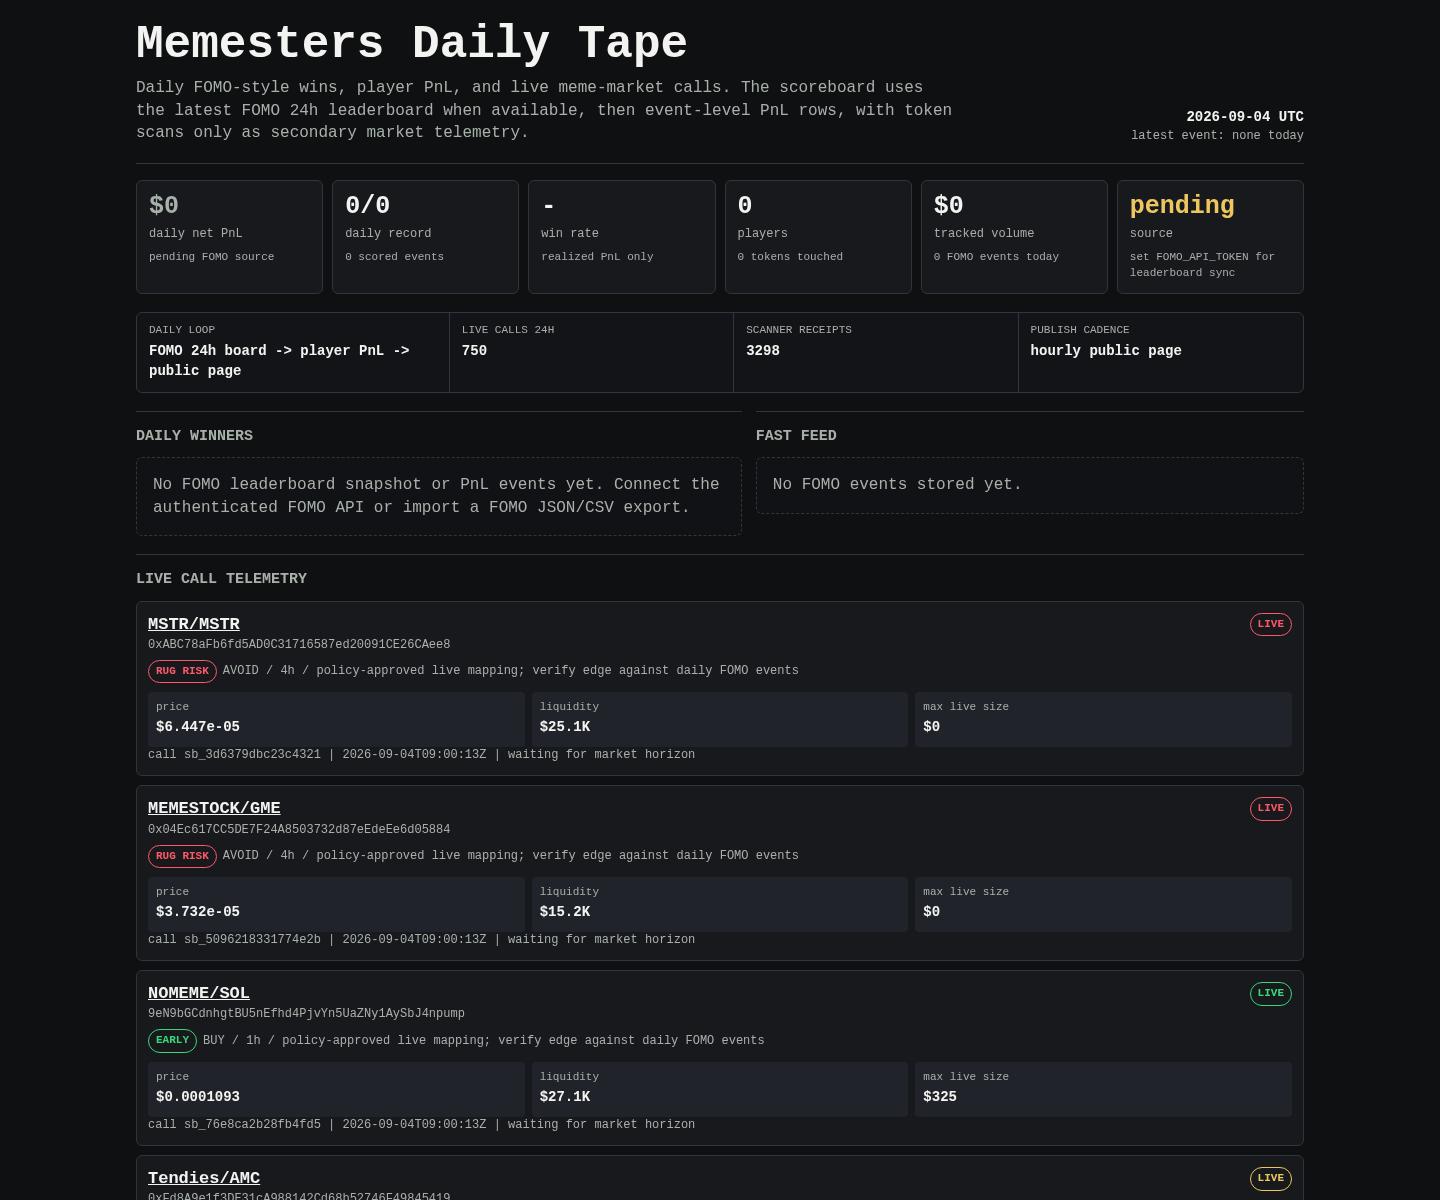
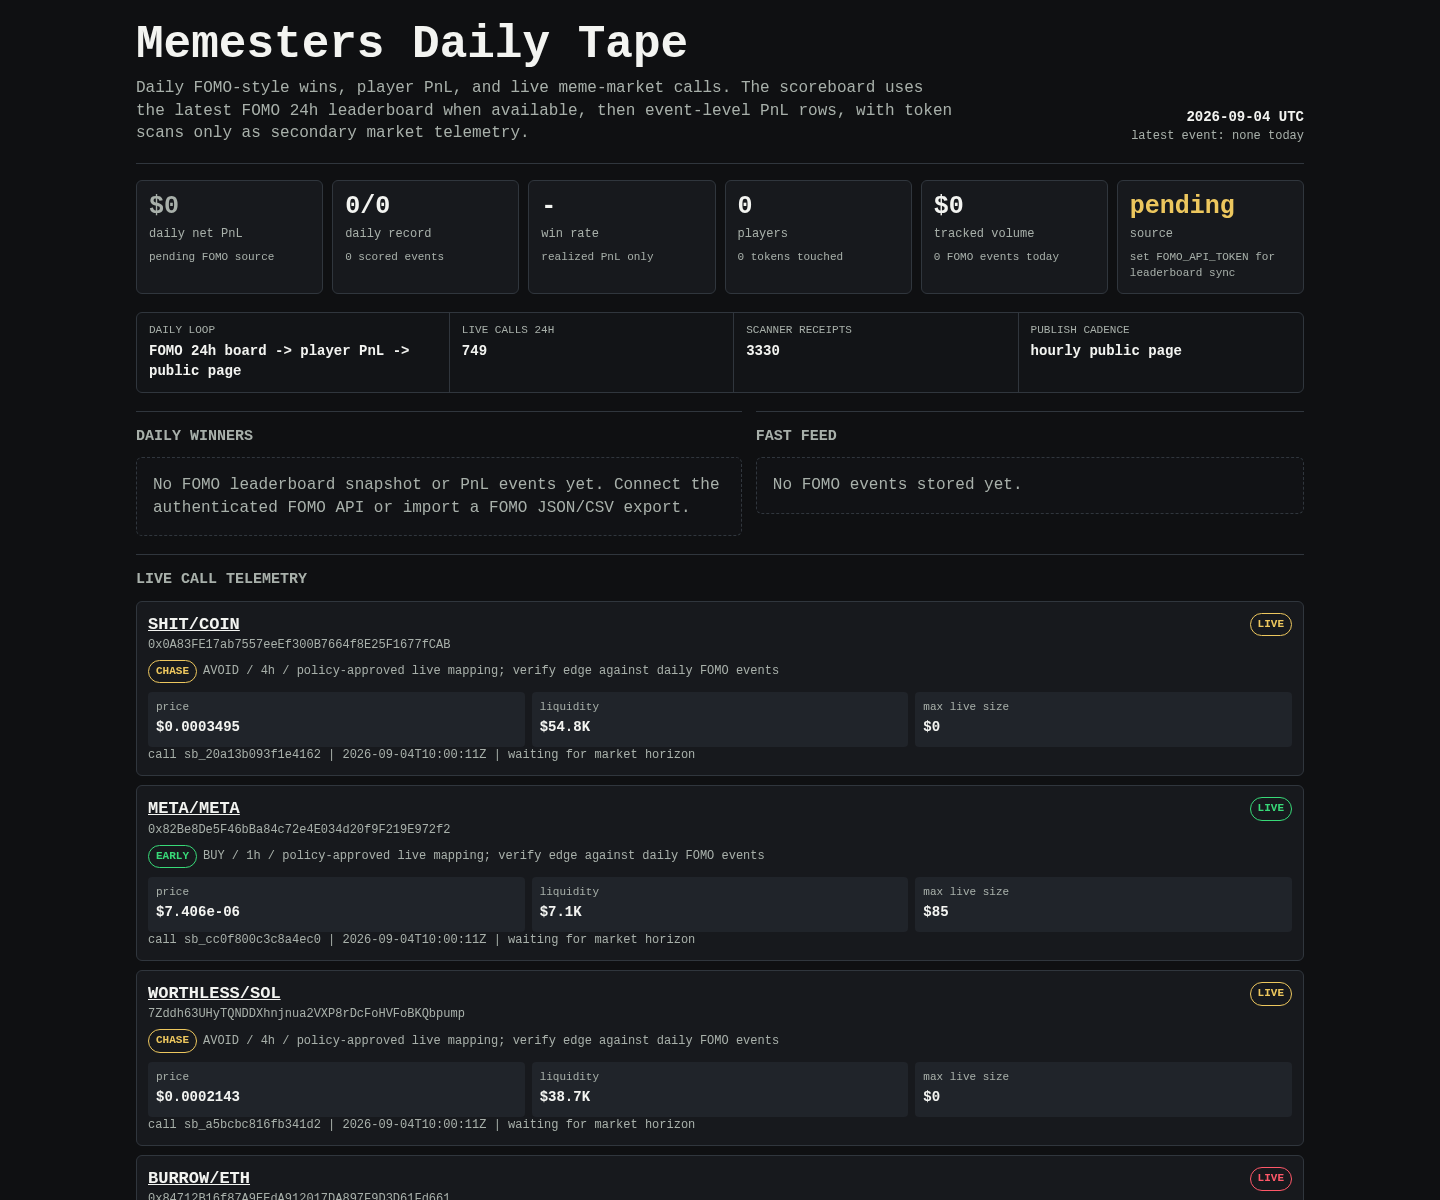
Update Memesters scoreboard

diff --git a/memesters/index.html b/memesters/index.html
@@ -149,8 +149,8 @@
 
     <div class="rail" aria-label="live operating loop">
       <div><span>daily loop</span><b>FOMO 24h board -> player PnL -> public page</b></div>
-      <div><span>live calls 24h</span><b>750</b></div>
-      <div><span>scanner receipts</span><b>3298</b></div>
+      <div><span>live calls 24h</span><b>749</b></div>
+      <div><span>scanner receipts</span><b>3330</b></div>
       <div><span>publish cadence</span><b>hourly public page</b></div>
     </div>
 
@@ -171,50 +171,29 @@
     <article class="receipt">
       <div class="receipt-head">
         <div>
-          <div class="pair"><a href="https://dexscreener.com/robinhood/0x47578ccc8b016f1ef01eb459fc8ffb57c5bf68549935a631ecc06a5872fc3793">MSTR/MSTR</a></div>
-          <div class="addr">0xABC78aFb6fd5AD0C31716587ed20091CE26CAee8</div>
+          <div class="pair"><a href="https://dexscreener.com/robinhood/0x6c4cc81c9f84e6d12f990bc1431e523875efe45a2e0ae91e3ceae6baffd845a5">SHIT/COIN</a></div>
+          <div class="addr">0x0A83FE17ab7557eeEf300B7664f8E25F1677fCAB</div>
           <div class="addr policy-line">
-            <span class="badge rug-risk">RUG RISK</span>
+            <span class="badge chase">CHASE</span>
             <span>AVOID / 4h / policy-approved live mapping; verify edge against daily FOMO events</span>
           </div>
         </div>
-        <span class="badge rug-risk">LIVE</span>
+        <span class="badge chase">LIVE</span>
       </div>
       <div class="receipt-grid">
-        <div class="kv"><span>price</span><b>$6.447e-05</b></div>
-        <div class="kv"><span>liquidity</span><b>$25.1K</b></div>
+        <div class="kv"><span>price</span><b>$0.0003495</b></div>
+        <div class="kv"><span>liquidity</span><b>$54.8K</b></div>
         <div class="kv"><span>max live size</span><b>$0</b></div>
       </div>
-      <div class="outcomes">call sb_3d6379dbc23c4321 | 2026-09-04T09:00:13Z | waiting for market horizon</div>
+      <div class="outcomes">call sb_20a13b093f1e4162 | 2026-09-04T10:00:11Z | waiting for market horizon</div>
     </article>
     
 
     <article class="receipt">
       <div class="receipt-head">
         <div>
-          <div class="pair"><a href="https://dexscreener.com/robinhood/0x38ebe330c83d3c522f6a2bb66e0b8a05ede7ba2c76e221201b46e2f0460f5db7">MEMESTOCK/GME</a></div>
-          <div class="addr">0x04Ec617CC5DE7F24A8503732d87eEdeEe6d05884</div>
-          <div class="addr policy-line">
-            <span class="badge rug-risk">RUG RISK</span>
-            <span>AVOID / 4h / policy-approved live mapping; verify edge against daily FOMO events</span>
-          </div>
-        </div>
-        <span class="badge rug-risk">LIVE</span>
-      </div>
-      <div class="receipt-grid">
-        <div class="kv"><span>price</span><b>$3.732e-05</b></div>
-        <div class="kv"><span>liquidity</span><b>$15.2K</b></div>
-        <div class="kv"><span>max live size</span><b>$0</b></div>
-      </div>
-      <div class="outcomes">call sb_5096218331774e2b | 2026-09-04T09:00:13Z | waiting for market horizon</div>
-    </article>
-    
-
-    <article class="receipt">
-      <div class="receipt-head">
-        <div>
-          <div class="pair"><a href="https://dexscreener.com/solana/a2jz6wdbdsxvmknastgduoax8as2gayrygpuz1bcxexd">NOMEME/SOL</a></div>
-          <div class="addr">9eN9bGCdnhgtBU5nEfhd4PjvYn5UaZNy1AySbJ4npump</div>
+          <div class="pair"><a href="https://dexscreener.com/robinhood/0xc55a12245b50b4e43db8457c6fe546190d9d99f8b73b9ee19bda2464f1ce1e10">META/META</a></div>
+          <div class="addr">0x82Be8De5F46bBa84c72e4E034d20f9F219E972f2</div>
           <div class="addr policy-line">
             <span class="badge early">EARLY</span>
             <span>BUY / 1h / policy-approved live mapping; verify edge against daily FOMO events</span>
@@ -223,19 +202,19 @@
         <span class="badge early">LIVE</span>
       </div>
       <div class="receipt-grid">
-        <div class="kv"><span>price</span><b>$0.0001093</b></div>
-        <div class="kv"><span>liquidity</span><b>$27.1K</b></div>
-        <div class="kv"><span>max live size</span><b>$325</b></div>
+        <div class="kv"><span>price</span><b>$7.406e-06</b></div>
+        <div class="kv"><span>liquidity</span><b>$7.1K</b></div>
+        <div class="kv"><span>max live size</span><b>$85</b></div>
       </div>
-      <div class="outcomes">call sb_76e8ca2b28fb4fd5 | 2026-09-04T09:00:13Z | waiting for market horizon</div>
+      <div class="outcomes">call sb_cc0f800c3c8a4ec0 | 2026-09-04T10:00:11Z | waiting for market horizon</div>
     </article>
     
 
     <article class="receipt">
       <div class="receipt-head">
         <div>
-          <div class="pair"><a href="https://dexscreener.com/robinhood/0x09e67b4805061117b1a87f886a3ed08669a90988a3e76d8f3204c78f1b0b7e81">Tendies/AMC</a></div>
-          <div class="addr">0xFd8A9e1f3DE31cA988142Cd68b52746F49845419</div>
+          <div class="pair"><a href="https://dexscreener.com/solana/cpe4y7gdcmwsozuhksemnqevmircr69i1jkqaidqsjc">WORTHLESS/SOL</a></div>
+          <div class="addr">7Zddh63UHyTQNDDXhnjnua2VXP8rDcFoHVFoBKQbpump</div>
           <div class="addr policy-line">
             <span class="badge chase">CHASE</span>
             <span>AVOID / 4h / policy-approved live mapping; verify edge against daily FOMO events</span>
@@ -244,82 +223,19 @@
         <span class="badge chase">LIVE</span>
       </div>
       <div class="receipt-grid">
-        <div class="kv"><span>price</span><b>$0.0004275</b></div>
-        <div class="kv"><span>liquidity</span><b>$38.8K</b></div>
+        <div class="kv"><span>price</span><b>$0.0002143</b></div>
+        <div class="kv"><span>liquidity</span><b>$38.7K</b></div>
         <div class="kv"><span>max live size</span><b>$0</b></div>
       </div>
-      <div class="outcomes">call sb_d8387ae1376a46fe | 2026-09-04T09:00:12Z | waiting for market horizon</div>
+      <div class="outcomes">call sb_a5bcbc816fb341d2 | 2026-09-04T10:00:11Z | waiting for market horizon</div>
     </article>
     
 
     <article class="receipt">
       <div class="receipt-head">
         <div>
-          <div class="pair"><a href="https://dexscreener.com/robinhood/0xd41804e8588586e4c122a2dc7b3e82dd7f4b1b341e3dd085435b32013095af32">PLTR/PLTR</a></div>
-          <div class="addr">0xf92FbDFaF906d172DC0ab24e4bBc1225a2341F4D</div>
-          <div class="addr policy-line">
-            <span class="badge chase">CHASE</span>
-            <span>AVOID / 4h / policy-approved live mapping; verify edge against daily FOMO events</span>
-          </div>
-        </div>
-        <span class="badge chase">LIVE</span>
-      </div>
-      <div class="receipt-grid">
-        <div class="kv"><span>price</span><b>$8.404e-05</b></div>
-        <div class="kv"><span>liquidity</span><b>$24.8K</b></div>
-        <div class="kv"><span>max live size</span><b>$0</b></div>
-      </div>
-      <div class="outcomes">call sb_9924a812611f4de6 | 2026-09-04T09:00:12Z | waiting for market horizon</div>
-    </article>
-    
-
-    <article class="receipt">
-      <div class="receipt-head">
-        <div>
-          <div class="pair"><a href="https://dexscreener.com/robinhood/0x9c9af2b919d590ae02195d6fab3da132d0cec1a453d4503a74489e7412b9ca2e">HOOD/HOOD</a></div>
-          <div class="addr">0xE402ECB44c6766826b0e4748D8c4D9144d93B8d4</div>
-          <div class="addr policy-line">
-            <span class="badge chase">CHASE</span>
-            <span>AVOID / 4h / policy-approved live mapping; verify edge against daily FOMO events</span>
-          </div>
-        </div>
-        <span class="badge chase">LIVE</span>
-      </div>
-      <div class="receipt-grid">
-        <div class="kv"><span>price</span><b>$3.9e-05</b></div>
-        <div class="kv"><span>liquidity</span><b>$20.2K</b></div>
-        <div class="kv"><span>max live size</span><b>$0</b></div>
-      </div>
-      <div class="outcomes">call sb_6705c2abb26b440c | 2026-09-04T09:00:12Z | waiting for market horizon</div>
-    </article>
-    
-
-    <article class="receipt">
-      <div class="receipt-head">
-        <div>
-          <div class="pair"><a href="https://dexscreener.com/robinhood/0xdfc74fdc65febbc94189b1f015b455b52ef430ea">KIWI/WETH</a></div>
-          <div class="addr">0xd5FEE75B0E9084262b22f934aA39a6898F584EEa</div>
-          <div class="addr policy-line">
-            <span class="badge chase">CHASE</span>
-            <span>AVOID / 4h / policy-approved live mapping; verify edge against daily FOMO events</span>
-          </div>
-        </div>
-        <span class="badge chase">LIVE</span>
-      </div>
-      <div class="receipt-grid">
-        <div class="kv"><span>price</span><b>$0.0001759</b></div>
-        <div class="kv"><span>liquidity</span><b>$88.1K</b></div>
-        <div class="kv"><span>max live size</span><b>$0</b></div>
-      </div>
-      <div class="outcomes">call sb_3cb4573a36fc47fc | 2026-09-04T09:00:12Z | waiting for market horizon</div>
-    </article>
-    
-
-    <article class="receipt">
-      <div class="receipt-head">
-        <div>
-          <div class="pair"><a href="https://dexscreener.com/robinhood/0xff314097f73a9a373b648dbe9adb6446340d453c585d572087deafcf7112147e">ROBINHOOD/USDG</a></div>
-          <div class="addr">0x5D8c7212A3D5d2C22d3849a7A7918c6A61c31961</div>
+          <div class="pair"><a href="https://dexscreener.com/robinhood/0x5bb6c113200d627e753bc046c91d369ed823419cc406663bd02553bf02eef79c">BURROW/ETH</a></div>
+          <div class="addr">0x84712B16f87A9EEdA912017DA897F9D3D61Fd661</div>
           <div class="addr policy-line">
             <span class="badge rug-risk">RUG RISK</span>
             <span>AVOID / 4h / policy-approved live mapping; verify edge against daily FOMO events</span>
@@ -328,19 +244,61 @@
         <span class="badge rug-risk">LIVE</span>
       </div>
       <div class="receipt-grid">
-        <div class="kv"><span>price</span><b>$9.857e-06</b></div>
-        <div class="kv"><span>liquidity</span><b>$8.1K</b></div>
+        <div class="kv"><span>price</span><b>$2.737e-05</b></div>
+        <div class="kv"><span>liquidity</span><b>$15.4K</b></div>
         <div class="kv"><span>max live size</span><b>$0</b></div>
       </div>
-      <div class="outcomes">call sb_b2df1a0b7d0d4aa4 | 2026-09-04T09:00:12Z | waiting for market horizon</div>
+      <div class="outcomes">call sb_d43580271ec3421a | 2026-09-04T10:00:11Z | waiting for market horizon</div>
     </article>
     
 
     <article class="receipt">
       <div class="receipt-head">
         <div>
-          <div class="pair"><a href="https://dexscreener.com/robinhood/0x63e771e087c61a3b306021d028a21db35df64df9b733f9815ebf156bdac3993a">VLAD/HOOD</a></div>
-          <div class="addr">0xc2E5A3D71F2040E8d8C093B6b1a30c042F87C67E</div>
+          <div class="pair"><a href="https://dexscreener.com/solana/gofhgsxh5ywt7esjp8ujyd9a85ogfsdp5yxpvrbdhbl7">ALONROBIN/SOL</a></div>
+          <div class="addr">4agzpSsAUpBoE9ZVrEpCGyX8EWxNkbDrqrvwbg8cpump</div>
+          <div class="addr policy-line">
+            <span class="badge rug-risk">RUG RISK</span>
+            <span>AVOID / 4h / policy-approved live mapping; verify edge against daily FOMO events</span>
+          </div>
+        </div>
+        <span class="badge rug-risk">LIVE</span>
+      </div>
+      <div class="receipt-grid">
+        <div class="kv"><span>price</span><b>$2.536e-06</b></div>
+        <div class="kv"><span>liquidity</span><b>$2.7K</b></div>
+        <div class="kv"><span>max live size</span><b>$0</b></div>
+      </div>
+      <div class="outcomes">call sb_895d85afd4f147e7 | 2026-09-04T10:00:10Z | waiting for market horizon</div>
+    </article>
+    
+
+    <article class="receipt">
+      <div class="receipt-head">
+        <div>
+          <div class="pair"><a href="https://dexscreener.com/robinhood/0x63c015f85db35586d4f864fe3602633fbfc948acb53a23fec0572664c2909f14">dank elf/ELF</a></div>
+          <div class="addr">0x6e9610541F0953A4315b5B515aaFBeE7C43E7401</div>
+          <div class="addr policy-line">
+            <span class="badge rug-risk">RUG RISK</span>
+            <span>AVOID / 4h / policy-approved live mapping; verify edge against daily FOMO events</span>
+          </div>
+        </div>
+        <span class="badge rug-risk">LIVE</span>
+      </div>
+      <div class="receipt-grid">
+        <div class="kv"><span>price</span><b>$7.827e-06</b></div>
+        <div class="kv"><span>liquidity</span><b>$7.3K</b></div>
+        <div class="kv"><span>max live size</span><b>$0</b></div>
+      </div>
+      <div class="outcomes">call sb_50ac53bc461f4792 | 2026-09-04T10:00:10Z | waiting for market horizon</div>
+    </article>
+    
+
+    <article class="receipt">
+      <div class="receipt-head">
+        <div>
+          <div class="pair"><a href="https://dexscreener.com/solana/4nlt155xkrkwggd4iqqgbxj4w2chmfi8suwfedm42e7w">ANSEMINU/SOL</a></div>
+          <div class="addr">G5vBr81KJZEuFvD8Nf2oB5XRa6Ess7yHJefoUCjJpump</div>
           <div class="addr policy-line">
             <span class="badge chase">CHASE</span>
             <span>AVOID / 4h / policy-approved live mapping; verify edge against daily FOMO events</span>
@@ -349,32 +307,74 @@
         <span class="badge chase">LIVE</span>
       </div>
       <div class="receipt-grid">
-        <div class="kv"><span>price</span><b>$0.0002916</b></div>
-        <div class="kv"><span>liquidity</span><b>$144.2K</b></div>
+        <div class="kv"><span>price</span><b>$0.0001429</b></div>
+        <div class="kv"><span>liquidity</span><b>$31.1K</b></div>
         <div class="kv"><span>max live size</span><b>$0</b></div>
       </div>
-      <div class="outcomes">call sb_4504e523d0674d9d | 2026-09-04T08:45:09Z | waiting for market horizon</div>
+      <div class="outcomes">call sb_10e2ab55e5a94059 | 2026-09-04T10:00:10Z | waiting for market horizon</div>
     </article>
     
 
     <article class="receipt">
       <div class="receipt-head">
         <div>
-          <div class="pair"><a href="https://dexscreener.com/hyperevm/0x39f915bbec022ad441447ee7ce96fb430a824133">AUCTION/WHYPE</a></div>
-          <div class="addr">0xEba50F9BC52138309FcBFcB558925D132781B582</div>
+          <div class="pair"><a href="https://dexscreener.com/robinhood/0xb56d8c109836037007d4fd65d65e29f97676f7a47368e359ec38968a5b99aca0">LLAMA/ETH</a></div>
+          <div class="addr">0x3B4246F0d621C85c648B010299AfD773Caf179E8</div>
           <div class="addr policy-line">
-            <span class="badge chase">CHASE</span>
-            <span>AVOID / 4h / policy-approved live mapping; verify edge against daily FOMO events</span>
+            <span class="badge early">EARLY</span>
+            <span>BUY / 1h / policy-approved live mapping; verify edge against daily FOMO events</span>
           </div>
         </div>
-        <span class="badge chase">LIVE</span>
+        <span class="badge early">LIVE</span>
       </div>
       <div class="receipt-grid">
-        <div class="kv"><span>price</span><b>$8.051e-06</b></div>
-        <div class="kv"><span>liquidity</span><b>$6.9K</b></div>
-        <div class="kv"><span>max live size</span><b>$0</b></div>
+        <div class="kv"><span>price</span><b>$1.006e-05</b></div>
+        <div class="kv"><span>liquidity</span><b>$9.5K</b></div>
+        <div class="kv"><span>max live size</span><b>$25</b></div>
       </div>
-      <div class="outcomes">call sb_65e87970fdc249f7 | 2026-09-04T08:45:09Z | waiting for market horizon</div>
+      <div class="outcomes">call sb_8621de6c254f4b0f | 2026-09-04T09:45:10Z | waiting for market horizon</div>
+    </article>
+    
+
+    <article class="receipt">
+      <div class="receipt-head">
+        <div>
+          <div class="pair"><a href="https://dexscreener.com/robinhood/0xd677d20de2da6f86d98a570180ca6ad7650cb5a9e063b1d3fae320ec44ce63b6">ADAM /AMC</a></div>
+          <div class="addr">0x29EA36CBC9FaEd8d472499345A7380E89CA00E01</div>
+          <div class="addr policy-line">
+            <span class="badge early">EARLY</span>
+            <span>BUY / 1h / policy-approved live mapping; verify edge against daily FOMO events</span>
+          </div>
+        </div>
+        <span class="badge early">LIVE</span>
+      </div>
+      <div class="receipt-grid">
+        <div class="kv"><span>price</span><b>$9.244e-06</b></div>
+        <div class="kv"><span>liquidity</span><b>$8.3K</b></div>
+        <div class="kv"><span>max live size</span><b>$31</b></div>
+      </div>
+      <div class="outcomes">call sb_ca17f38be288491a | 2026-09-04T09:45:10Z | waiting for market horizon</div>
+    </article>
+    
+
+    <article class="receipt">
+      <div class="receipt-head">
+        <div>
+          <div class="pair"><a href="https://dexscreener.com/robinhood/0x771fca468b6e92dd313d47a303956848aa993aeace9ae8b7ece05b1e932ede19">PCM/ETH</a></div>
+          <div class="addr">0x5328F6fb548F681d42679C42bc1dC115f7b6D459</div>
+          <div class="addr policy-line">
+            <span class="badge early">EARLY</span>
+            <span>BUY / 1h / policy-approved live mapping; verify edge against daily FOMO events</span>
+          </div>
+        </div>
+        <span class="badge early">LIVE</span>
+      </div>
+      <div class="receipt-grid">
+        <div class="kv"><span>price</span><b>$5.782e-05</b></div>
+        <div class="kv"><span>liquidity</span><b>$22.4K</b></div>
+        <div class="kv"><span>max live size</span><b>$40</b></div>
+      </div>
+      <div class="outcomes">call sb_eb1f3ff068a046b6 | 2026-09-04T09:45:10Z | waiting for market horizon</div>
     </article>
     
     </section>
